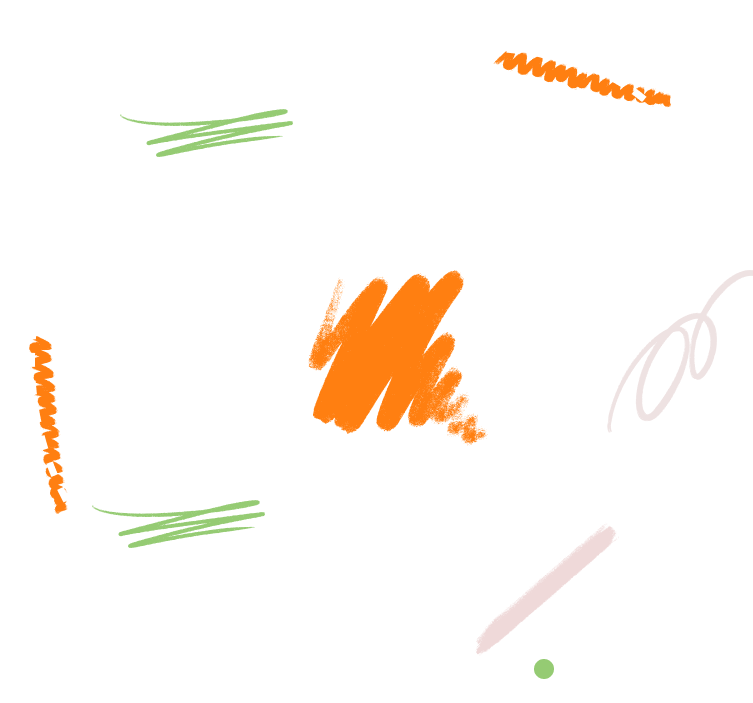
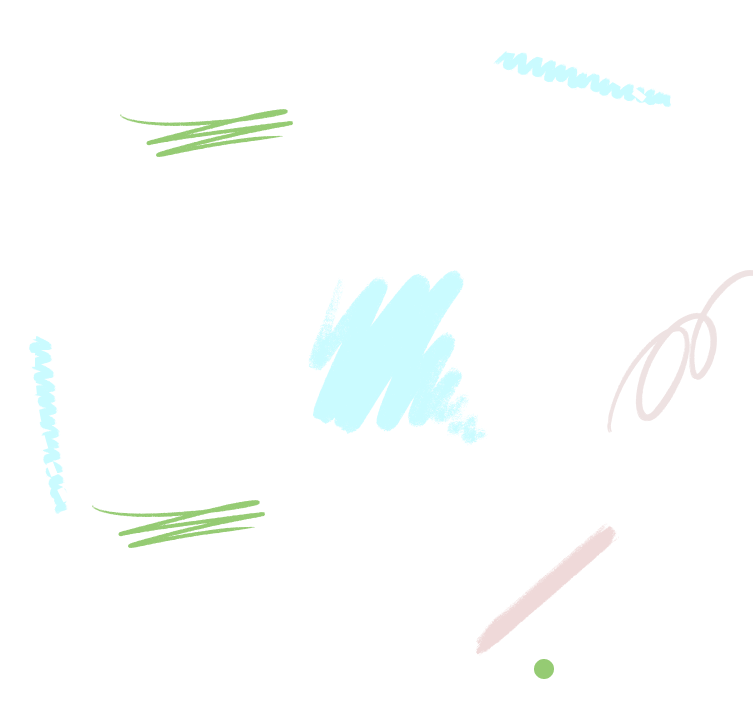
colors changed 😬

Changed region(s): [[0.3971, 0.3883, 0.6414, 0.6273], [0.0305, 0.478, 0.0916, 0.7468], [0.6414, 0.0597, 0.8858, 0.1494]]

diff --git a/lib/components/journal/write_journal.dart b/lib/components/journal/write_journal.dart
@@ -19,19 +19,19 @@ class WriteJournal extends StatelessWidget {
         padding: const EdgeInsets.symmetric(horizontal: 15.0, vertical: 5),
         child: Column(
           children: [
-            // Animate(
-            //   effects: const [ScaleEffect()],
-            //   child: ClipRRect(
-            //       borderRadius: BorderRadius.circular(8),
-            //       child: Image.asset(DailyThingsImages.write)),
-            // ),
+            Animate(
+              effects: const [ScaleEffect()],
+              child: ClipRRect(
+                  borderRadius: BorderRadius.circular(8),
+                  child: Image.asset(DailyThingsImages.write)),
+            ),
             selectedId != ""
                 ? Animate(
                     effects: const [FadeEffect()],
                     child: Container(
                       margin: const EdgeInsets.symmetric(vertical: 20),
                       decoration: BoxDecoration(
-                        color: Colors.white.withOpacity(0.7),
+                        color: Colors.white,
                         borderRadius: BorderRadius.circular(8),
                       ),
                       child: Center(

diff --git a/lib/constants/colors.dart b/lib/constants/colors.dart
@@ -2,7 +2,7 @@ import 'package:flutter/material.dart';
 
 abstract class DailyThingsColors {
   static const backgroundColor = Color(0xFF0E0E0E);
-  static const themeOrange = Color(0xFFff7f11);
+  static const themeOrange = Color(0xFFCAFBFF);
   static const themeRed = Color(0xFFFF1B1C);
   static const themeBeige = Color(0xFFE2E8ce);
   static const tertiaryGray = Color(0xFFACBFA4);
